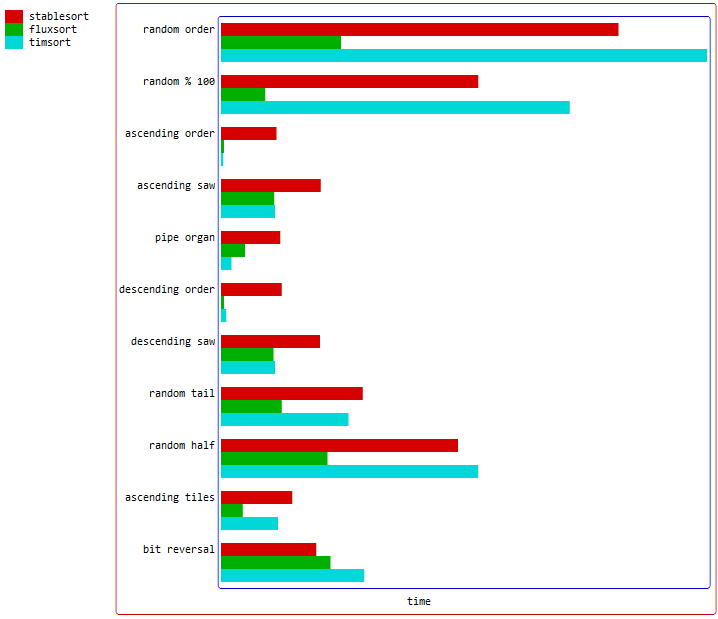
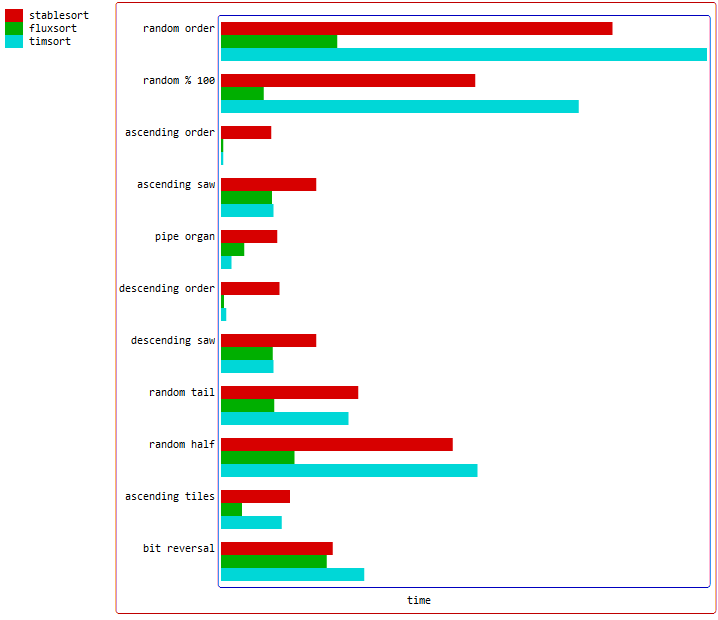
1.1.5.2

diff --git a/src/bench.c b/src/bench.c
@@ -44,43 +44,45 @@
 
 //#define cmp(a,b) (*(a) > *(b)) // uncomment for fast primitive comparisons
 
+#define SORTS "*", "qsort", "fluxsort"
+
 #if __has_include("blitsort.h")
-  #include "blitsort.h"
+  #include "blitsort.h" // curl "https://raw.githubusercontent.com/scandum/blitsort/master/src/blitsort.{c,h}" -o "blitsort.#1"
 #endif
 #if __has_include("crumsort.h")
-  #include "crumsort.h"
+  #include "crumsort.h" // curl "https://raw.githubusercontent.com/scandum/crumsort/master/src/crumsort.{c,h}" -o "crumsort.#1"
 #endif
 #if __has_include("flowsort.h")
   #include "flowsort.h"
 #endif
 #if __has_include("fluxsort.h")
-  #include "fluxsort.h"
+  #include "fluxsort.h" // curl "https://raw.githubusercontent.com/scandum/fluxsort/master/src/fluxsort.{c,h}" -o "fluxsort.#1"
 #endif
 #if __has_include("gridsort.h")
-  #include "gridsort.h"
+  #include "gridsort.h" // curl "https://raw.githubusercontent.com/scandum/gridsort/master/src/gridsort.{c,h}" -o "gridsort.#1"
 #endif
 #if __has_include("quadsort.h")
-  #include "quadsort.h"
+  #include "quadsort.h" // curl "https://raw.githubusercontent.com/scandum/quadsort/master/src/quadsort.{c,h}" -o "quadsort.#1"
 #endif
 #if __has_include("wolfsort.h")
-  #include "wolfsort.h"
+  #include "wolfsort.h" // curl "https://raw.githubusercontent.com/scandum/wolfsort/master/src/wolfsort.{c,h}" -o "wolfsort.#1"
 #endif
 
 #ifdef __GNUG__
   #include <algorithm>
   #if __has_include("pdqsort.h")
-    #include "pdqsort.h" // https://github.com/orlp/pdqsort/blob/master/pdqsort.h
+    #include "pdqsort.h" // curl https://raw.githubusercontent.com/orlp/pdqsort/master/pdqsort.h > pdqsort.h
   #endif
   #if __has_include("rhsort.c")
     #define RHSORT_C
-    #include "rhsort.c" // https://github.com/mlochbaum/rhsort/blob/master/rhsort.c
+    #include "rhsort.c" // curl https://raw.githubusercontent.com/mlochbaum/rhsort/master/rhsort.c > rhsort.c
   #endif
   #if __has_include("ska_sort.hpp")
     #define SKASORT_HPP
-    #include "ska_sort.hpp" // https://github.com/skarupke/ska_sort/blob/master/ska_sort.hpp
+    #include "ska_sort.hpp" // curl https://raw.githubusercontent.com/skarupke/ska_sort/master/ska_sort.hpp > ska_sort.hpp
   #endif
   #if __has_include("timsort.hpp")
-    #include "timsort.hpp" // https://github.com/timsort/cpp-TimSort/blob/master/include/gfx/timsort.hpp
+    #include "timsort.hpp" // curl https://raw.githubusercontent.com/timsort/cpp-TimSort/master/include/gfx/timsort.hpp > timsort.hpp
   #endif
 #endif
 
@@ -101,13 +103,15 @@ size_t comparisons;
 
 __attribute__ ((noinline)) int cmp_int(const void * a, const void * b)
 {
-	const int l = *(const int *)a;
-	const int r = *(const int *)b;
+//	const int l = *(const int *)a;
+//	const int r = *(const int *)b;
 
 	comparisons++;
 
+	return *(int *) a - *(int *) b;
 //	return (l > r) - (l < r);
-	return l - r;
+//	return l > r;
+//	return l - r;
 }
 
 __attribute__ ((noinline)) int cmp_rev(const void * a, const void * b)
@@ -195,6 +199,9 @@ void test_sort(void *array, void *unsorted, void *valid, int minimum, int maximu
 	long double *ptda = (long double *) array, *ptdv = valid;
 	int *pta = (int *) array, *ptv = (int *) valid, cnt, rep, name32;
 	char **ptsa = (char **) array, **ptsv = (char **) valid;
+#ifdef SKASORT_HPP
+	void *swap;
+#endif
 
 	if (*name == '*')
 	{
@@ -241,7 +248,7 @@ void test_sort(void *array, void *unsorted, void *valid, int minimum, int maximu
 
 			comparisons = 0;
 
-			// edit *sorts[] in main() to add / remove sorts
+			// edit #define SORTS to add / remove sorts
 
 			switch (name32)
 			{
@@ -280,7 +287,7 @@ void test_sort(void *array, void *unsorted, void *valid, int minimum, int maximu
 				case 'r' + 'h' * 32 + 's' * 1024: if (size == sizeof(int)) rhsort32(pta, pta + max); else return; break;
   #endif
   #ifdef SKASORT_HPP
-				case 's' + 'k' * 32 + 'a' * 1024: void *swap = malloc(max * size); if (size == sizeof(int)) ska_sort_copy(pta, pta + max, (int *) swap); else if (size == sizeof(long long)) ska_sort_copy(ptla, ptla + max, (long long *) swap); else return; free(swap); break;
+				case 's' + 'k' * 32 + 'a' * 1024: swap = malloc(max * size); if (size == sizeof(int)) ska_sort_copy(pta, pta + max, (int *) swap); else if (size == sizeof(long long)) ska_sort_copy(ptla, ptla + max, (long long *) swap); else repetitions = 0; free(swap); break;
   #endif
   #ifdef GFX_TIMSORT_HPP
 				case 't' + 'i' * 32 + 'm' * 1024: if (size == sizeof(int)) gfx::timsort(pta, pta + max); else if (size == sizeof(long long)) gfx::timsort(ptla, ptla + max); else gfx::timsort(ptda, ptda + max); break;
@@ -604,10 +611,9 @@ int main(int argc, char **argv)
 	int cnt, rnd, lst, rep;
 	size_t mem;
 	int *a_array, *r_array, *v_array;
-	long long *la_array, *lr_array, *lv_array;
-	long double *da_array, *dr_array, *dv_array;
 
-	char dist[40], *sorts[] = { "*", "qsort", "fluxsort", "quadsort" };
+	char dist[40], *sorts[] = { SORTS };
+//	char dist[40], *sorts[] = { "*", "qsort", "quadsort" };
 
 	if (argc >= 1 && argv[1] && *argv[1])
 	{
@@ -646,7 +652,7 @@ int main(int argc, char **argv)
 
 	// C string
 
-#ifndef SKIPSTRINGS
+#ifndef SKIP_STRINGS
 #ifndef cmp
 	if (repetitions == 1)
 	{
@@ -685,9 +691,9 @@ int main(int argc, char **argv)
 	// 128 bit
 
 #ifndef SKIP_DOUBLES
-	da_array = (long double *) malloc(max * sizeof(long double));
-	dr_array = (long double *) malloc(mem * sizeof(long double));
-	dv_array = (long double *) malloc(max * sizeof(long double));
+	long double *da_array = (long double *) malloc(max * sizeof(long double));
+	long double *dr_array = (long double *) malloc(mem * sizeof(long double));
+	long double *dv_array = (long double *) malloc(max * sizeof(long double));
 
 	if (da_array == NULL || dr_array == NULL || dv_array == NULL)
 	{
@@ -722,9 +728,9 @@ int main(int argc, char **argv)
 	// 64 bit
 
 #ifndef SKIP_LONGS
-	la_array = (long long *) malloc(max * sizeof(long long));
-	lr_array = (long long *) malloc(mem * sizeof(long long));
-	lv_array = (long long *) malloc(max * sizeof(long long));
+	long long *la_array = (long long *) malloc(max * sizeof(long long));
+	long long *lr_array = (long long *) malloc(mem * sizeof(long long));
+	long long *lv_array = (long long *) malloc(max * sizeof(long long));
 
 	if (la_array == NULL || lr_array == NULL || lv_array == NULL)
 	{

diff --git a/src/fluxsort.c b/src/fluxsort.c
@@ -29,60 +29,96 @@
 
 #define FLUX_OUT 24
 
+void FUNC(flux_partition)(VAR *array, VAR *swap, VAR *ptx, VAR *ptp, size_t nmemb, CMPFUNC *cmp);
+
 // Determine whether to use mergesort or quicksort
 
-size_t FUNC(flux_analyze)(VAR *array, size_t nmemb, CMPFUNC *cmp)
+void FUNC(flux_analyze)(VAR *array, VAR *swap, size_t swap_size, size_t nmemb, CMPFUNC *cmp)
 {
-	char loop, dist;
-	size_t cnt, balance = 0, streaks = 0;
-	VAR *pta, *ptb, swap;
+	char loop, asum, zsum;
+	size_t cnt, abalance = 0, zbalance = 0, astreaks = 0, zstreaks = 0;
+	VAR *pta, *ptz, tmp;
 
 	pta = array;
+	ptz = array + nmemb - 2;
 
-	for (cnt = nmemb ; cnt > 16 ; cnt -= 16)
+	for (cnt = nmemb ; cnt > 64 ; cnt -= 64)
 	{
-		for (dist = 0, loop = 16 ; loop ; loop--)
+		for (asum = zsum = 0, loop = 32 ; loop ; loop--)
 		{
-			dist += cmp(pta, pta + 1) > 0; pta++;
+			asum += cmp(pta, pta + 1) > 0; pta++;
+			zsum += cmp(ptz, ptz + 1) > 0; ptz--;
 		}
-		streaks += (dist == 0) | (dist == 16);
-		balance += dist;
+		astreaks += (asum == 0) | (asum == 32);
+		zstreaks += (zsum == 0) | (zsum == 32);
+		abalance += asum;
+		zbalance += zsum;
 	}
 
 	while (--cnt)
 	{
-		balance += cmp(pta, pta + 1) > 0;
-		pta++;
+		zbalance += cmp(ptz, ptz + 1) > 0; ptz--;
 	}
 
-	if (balance == 0)
+	if (abalance + zbalance == 0)
 	{
-		return 1;
+		return;
 	}
 
-	if (balance == nmemb - 1)
+	if (abalance + zbalance == nmemb - 1)
 	{
-		ptb = pta + 1;
+		ptz = array + nmemb;
 		pta = array;
 
 		cnt = nmemb / 2;
 
 		do
 		{
-			swap = *pta; *pta++ = *--ptb; *ptb = swap;
+			tmp = *pta; *pta++ = *--ptz; *ptz = tmp;
 		}
 		while (--cnt);
 
-		return 1;
+		return;
 	}
 
-	if (streaks >= nmemb / 40)
+	if (astreaks + zstreaks > nmemb / 40)
 	{
-		FUNC(quadsort)(array, nmemb, cmp);
-
-		return 1;
+		FUNC(quadsort_swap)(array, swap, swap_size, nmemb, cmp);
+		return;
 	}
-	return 0;
+
+	if (astreaks + zstreaks > nmemb / 80)
+	{
+		if (nmemb >= 512)
+		{
+			size_t block = pta - array;
+
+			if (astreaks < nmemb / 128)
+			{
+				FUNC(flux_partition)(array, swap, array, swap + block, block, cmp);
+			}
+			else if (abalance)
+			{
+				FUNC(quadsort_swap)(array, swap, swap_size, block, cmp);
+			}
+
+			if (zstreaks < nmemb / 128)
+			{
+				FUNC(flux_partition)(array + block, swap, array + block, swap + nmemb - block, nmemb - block, cmp);
+			}
+			else if (zbalance)
+			{
+				FUNC(quadsort_swap)(array + block, swap, swap_size, nmemb - block, cmp);
+			}
+			FUNC(blit_merge)(array, swap, swap_size, nmemb, block, cmp);
+		}
+		else
+		{
+			FUNC(quadsort_swap)(array, swap, swap_size, nmemb, cmp);
+		}
+		return;
+	}
+	FUNC(flux_partition)(array, swap, array, swap + nmemb, nmemb, cmp);
 }
 
 // The next 5 functions are used for pivot selection
@@ -173,8 +209,6 @@ VAR FUNC(median_of_nine)(VAR *array, size_t nmemb, CMPFUNC *cmp)
 
 	return array[FUNC(median_of_three)(array, x, y, z, cmp)];
 }
-
-void FUNC(flux_partition)(VAR *array, VAR *swap, VAR *ptx, VAR *ptp, size_t nmemb, CMPFUNC *cmp);
 
 // As per suggestion by Marshall Lochbaum to improve generic data handling
 
@@ -316,20 +350,20 @@ void FUNC(fluxsort)(VAR *array, size_t nmemb, CMPFUNC *cmp)
 {
 	if (nmemb < 32)
 	{
-		return FUNC(tail_swap)(array, nmemb, cmp);
+		FUNC(tail_swap)(array, nmemb, cmp);
 	}
-	VAR *swap = malloc(nmemb * sizeof(VAR));
+	else
+	{
+		VAR *swap = malloc(nmemb * sizeof(VAR));
 
-	if (swap == NULL)
-	{
-		return FUNC(quadsort)(array, nmemb, cmp);
+		if (swap == NULL)
+		{
+			return FUNC(quadsort)(array, nmemb, cmp);
+		}
+		FUNC(flux_analyze)(array, swap, nmemb, nmemb, cmp);
+
+		free(swap);
 	}
-	
-	if (FUNC(flux_analyze)(array, nmemb, cmp) == 0)
-	{
-		FUNC(flux_partition)(array, swap, array, swap + nmemb, nmemb, cmp);
-	}
-	free(swap);
 }
 
 void FUNC(fluxsort_swap)(VAR *array, VAR *swap, size_t swap_size, size_t nmemb, CMPFUNC *cmp)
@@ -342,8 +376,8 @@ void FUNC(fluxsort_swap)(VAR *array, VAR *swap, size_t swap_size, size_t nmemb, 
 	{
 		FUNC(quadsort_swap)(array, swap, swap_size, nmemb, cmp);
 	}
-	else if (FUNC(flux_analyze)(array, nmemb, cmp) == 0)
+	else
 	{
-		FUNC(flux_partition)(array, swap, array, swap + nmemb, nmemb, cmp);
+		FUNC(flux_analyze)(array, swap, swap_size, nmemb, cmp);
 	}
 }
